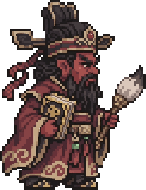
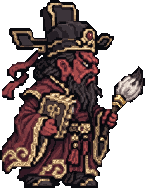
Đồng bộ lần 2: vẽ lại Diêm Vương (áo bào đen, ngầu hơn), Phán Quan, Mạnh Bà bằng ảnh đầu vào mịn, ngang độ mịn 4 trùm còn lại
Claude-Session: https://claude.ai/code/session_01QQj46swudhcjrv1xLak4k8

diff --git a/game/index.html b/game/index.html
@@ -1736,7 +1736,7 @@ Object.assign(CHM,{"nguudau": {"w": 145, "h": 141, "ax": 72, "ay": 138, "src": "
 /* Hắc/Bạch Vô Thường: thiết kế ChatGPT, chuyển sang nét pixel game bằng PixelLab (24/11) */
 Object.assign(CHM,{"hacvo": {"w": 135, "h": 159, "ax": 67, "ay": 156, "src": "assets/hacvo_am.png", "proc": "walk", "anims": {"idle": {"fps": 8, "f": [[0, 0]]}, "run": {"fps": 8, "f": [[0, 0]]}, "attack": {"fps": 8, "f": [[0, 0]]}, "hit": {"fps": 8, "f": [[0, 0]]}, "death": {"fps": 8, "f": [[0, 0]]}}},"bachvo": {"w": 141, "h": 165, "ax": 70, "ay": 162, "src": "assets/bachvo_am.png", "proc": "walk", "anims": {"idle": {"fps": 8, "f": [[0, 0]]}, "run": {"fps": 8, "f": [[0, 0]]}, "attack": {"fps": 8, "f": [[0, 0]]}, "hit": {"fps": 8, "f": [[0, 0]]}, "death": {"fps": 8, "f": [[0, 0]]}}}});
 /* Diêm Vương, Phán Quan, Mạnh Bà: ảnh chủ game đưa (ChatGPT, 192x192 nền trong suốt, lưới pixel sạch) */
-Object.assign(CHM,{"diemvuong": {"w": 180, "h": 237, "ax": 90, "ay": 234, "src": "assets/diemvuong_am.png", "proc": "walk", "anims": {"idle": {"fps": 8, "f": [[0, 0]]}, "run": {"fps": 8, "f": [[0, 0]]}, "attack": {"fps": 8, "f": [[0, 0]]}, "hit": {"fps": 8, "f": [[0, 0]]}, "death": {"fps": 8, "f": [[0, 0]]}}},"phanquan": {"w": 146, "h": 190, "ax": 73, "ay": 187, "src": "assets/phanquan_am.png", "proc": "walk", "anims": {"idle": {"fps": 8, "f": [[0, 0]]}, "run": {"fps": 8, "f": [[0, 0]]}, "attack": {"fps": 8, "f": [[0, 0]]}, "hit": {"fps": 8, "f": [[0, 0]]}, "death": {"fps": 8, "f": [[0, 0]]}}},"manhba": {"w": 161, "h": 187, "ax": 80, "ay": 184, "src": "assets/manhba_am.png", "proc": "walk", "anims": {"idle": {"fps": 8, "f": [[0, 0]]}, "run": {"fps": 8, "f": [[0, 0]]}, "attack": {"fps": 8, "f": [[0, 0]]}, "hit": {"fps": 8, "f": [[0, 0]]}, "death": {"fps": 8, "f": [[0, 0]]}}}});
+Object.assign(CHM,{"diemvuong": {"w": 190, "h": 245, "ax": 95, "ay": 242, "src": "assets/diemvuong_am.png", "proc": "walk", "anims": {"idle": {"fps": 8, "f": [[0, 0]]}, "run": {"fps": 8, "f": [[0, 0]]}, "attack": {"fps": 8, "f": [[0, 0]]}, "hit": {"fps": 8, "f": [[0, 0]]}, "death": {"fps": 8, "f": [[0, 0]]}}},"phanquan": {"w": 145, "h": 188, "ax": 72, "ay": 185, "src": "assets/phanquan_am.png", "proc": "walk", "anims": {"idle": {"fps": 8, "f": [[0, 0]]}, "run": {"fps": 8, "f": [[0, 0]]}, "attack": {"fps": 8, "f": [[0, 0]]}, "hit": {"fps": 8, "f": [[0, 0]]}, "death": {"fps": 8, "f": [[0, 0]]}}},"manhba": {"w": 158, "h": 186, "ax": 79, "ay": 183, "src": "assets/manhba_am.png", "proc": "walk", "anims": {"idle": {"fps": 8, "f": [[0, 0]]}, "run": {"fps": 8, "f": [[0, 0]]}, "attack": {"fps": 8, "f": [[0, 0]]}, "hit": {"fps": 8, "f": [[0, 0]]}, "death": {"fps": 8, "f": [[0, 0]]}}}});
 // Nhân vật chính lấy từ gói Wuxia Vol.2 (cong_cu/wuxia_sheet.py): nam = Huyền Tiêu Kiếm Tông · Nam đệ tử,
 // nữ = Xích Diễm Đao Môn · Nữ đệ tử. Cả hai cầm kiếm cùng một kiểu khi đứng, đi và chém.
 // Thần Giáng Tôn Ngộ Không: sprite PixelLab (vẽ lại cỡ 144, khung xương có gậy + đuôi), đã kiểm từng frame.
@@ -2341,7 +2341,7 @@ const AM_SIZE={mini:{r:36,spr:1.2},boss:{r:46,spr:1.45}};
 const AM_BOSSES={nguudau:['Ngưu Đầu','boss'],madien:['Mã Diện','boss'],huyetsat:['Huyết Sát Ma Tướng','mini'],hacvo:['Hắc Vô Thường','boss'],nghiethoa:['Nghiệt Hỏa Quỷ Vương','mini'],bachvo:['Bạch Vô Thường','boss'],thietlao:['Thiết Lao Ma Tướng','mini'],manhba:['Mạnh Bà','boss'],vongxuyenqt:['Vong Xuyên Quỷ Tướng','mini'],phanquan:['Phán Quan','boss'],dethinh:['Đế Thính','mini'],diemvuong:['Diêm Vương','boss']};
 for(const k in AM_BOSSES){const[nm,tier]=AM_BOSSES[k],z=AM_SIZE[tier];ET[k]=Object.assign({},ET[tier==='boss'?'boss':'elite'],{name:nm,amgioi:1,r:z.r},tier==='mini'?{mini:1}:{});ESPR[k]=[tier==='boss'?'quytuong':'quysai',z.spr]}
 /* Hình: Ngưu Đầu và Mã Diện = PixelLab (24/11). Hắc/Bạch Vô Thường, Mạnh Bà, Phán Quan, Diêm Vương đều đã có hình riêng. Mini-boss tạm quysai, riêng Huyết Sát dùng quytuong. */
-ESPR.nguudau=['nguudau',1.25];ESPR.diemvuong=['diemvuong',1.1];ET.diemvuong.r=58;/* trùm cuối: vẽ lại bằng PixelLab, to hơn và có aura lửa (chủ game) */ESPR.phanquan=['phanquan',0.93];ESPR.manhba=['manhba',0.94];ESPR.hacvo=['hacvo',1.11];ESPR.bachvo=['bachvo',1.07];ESPR.madien=['madien',1.1];/* hình PixelLab. Ảnh Ngưu Đầu thấp hơn Mã Diện (sừng 141 px so với đầu ngựa 147 px, chưa tính chùy 160), nên phóng 1,25 để Ngưu Đầu cao hơn một chút; cả hai vẫn cao hơn mini-boss */
+ESPR.nguudau=['nguudau',1.25];ESPR.diemvuong=['diemvuong',1.07];ET.diemvuong.r=58;/* trùm cuối: vẽ lại bằng PixelLab, to hơn và có aura lửa (chủ game) */ESPR.phanquan=['phanquan',0.94];ESPR.manhba=['manhba',0.95];ESPR.hacvo=['hacvo',1.11];ESPR.bachvo=['bachvo',1.07];ESPR.madien=['madien',1.1];/* hình PixelLab. Ảnh Ngưu Đầu thấp hơn Mã Diện (sừng 141 px so với đầu ngựa 147 px, chưa tính chùy 160), nên phóng 1,25 để Ngưu Đầu cao hơn một chút; cả hai vẫn cao hơn mini-boss */
 ESPR.huyetsat=['quytuong',AM_SIZE.mini.spr];/* chủ game: hình Ngưu Ma Vương dùng làm quái (Huyết Sát Ma Tướng, mini-boss T4/5), không làm Ngưu Đầu */
 /* Quái theo chặng: pool = danh sách trọng số (lặp lại = nhiều hơn), elite = số Quỷ Sai mỗi tầng trong chặng (theo thứ tự tầng) */
 const AM_ZONES=[

diff --git a/CLAUDE.md b/CLAUDE.md
@@ -379,3 +379,9 @@ Chủ game gửi ảnh sảnh iPhone ngang (~664×307, trong trình duyệt nên
 - Ngưỡng chọn tỉ lệ nguyên của trùm nâng từ 15% lên 20% (`espScale`). Diêm Vương hệ số 1,1 (cao 237 px, chiếm ~60% chiều cao iPhone ngang, to nhất; muốn nhỏ hơn thì giảm `ESPR.diemvuong`).
 - Ảnh mô phỏng iPhone DPR 3: `nguon/tham_chieu/trum_iphone_dpr3_sau_khi_sua.png`. PixelLab đợt này: +20; còn khoảng 2.413 lượt.
 
+## ĐỒNG BỘ 7 TRÙM LẦN 2 (24/11 đêm, chủ game: "chưa đồng bộ với Ngưu Đầu, Mã Diện, Hắc/Bạch Vô Thường"; Diêm Vương "áo bào đen, ngầu hơn")
+- **Đo được:** bản trước của Phán Quan, Mạnh Bà, Diêm Vương chỉ có ~62% đoạn màu rộng 1 px (khối 2×2 còn sót, trung bình 1,7 px/đoạn) so với 76–85% (1,23–1,45) của 4 trùm kia. Nguyên nhân: tao đưa PixelLab ảnh vẫn còn khối vuông 2×2 nên nó giữ khối.
+- **Cách làm đúng (bài học):** thu ảnh ChatGPT về độ phân giải thật (`NEAREST` ÷2), rồi phóng MƯỢT lên cỡ đích bằng `LANCZOS` (alpha cắt ngưỡng 110) để làm đầu vào `edit-images-v2`; prompt ghi rõ "NO 2x2 blocks, ultra-fine 1 px grid, rich shading 4–5 tones per material, giữ nguyên thiết kế". Script `nguon/pixellab/amgioi/gen_sync.py`, kết quả `sy/`. 10 lượt/con, 30 lượt (còn ~2.373).
+- **Sau khi vẽ lại:** Diêm Vương 190×245 (áo bào ĐEN thêu rồng vàng mảnh, áo choàng đen, mão lớn dải châu dài, mắt đỏ phát sáng, aura lửa đỏ đen, ESPR 1,07, `ET.diemvuong.r=58`), Phán Quan 145×188, Mạnh Bà 158×186 (ESPR ~0,94 để cao ~176); 76–84% đoạn 1 px, 85–100 màu, ngang 4 trùm kia. Ảnh: `nguon/tham_chieu/bay_trum_dong_bo_v2.png`, `dong_bo_v2.png`.
+- Các bản trước (`vt2/`, `dv/`) giữ để tham khảo, không dùng.
+
